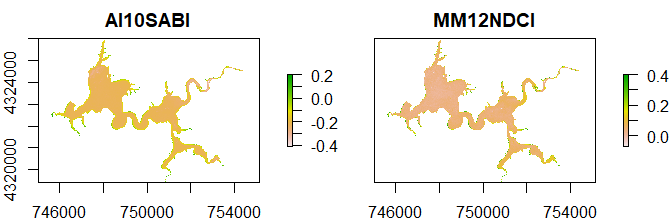
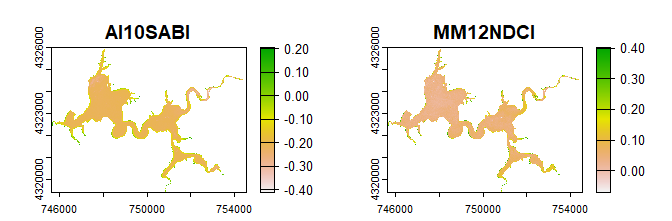
Updated docs

diff --git a/README.md b/README.md
@@ -6,8 +6,7 @@ status](http://www.r-pkg.org/badges/version/waterquality)](https://cran.r-projec
 [![Build
 Status](https://travis-ci.org/RAJohansen/waterquality.png?branch=master)](https://travis-ci.org/RAJohansen/waterquality)
 [![codecov](https://codecov.io/gh/RAJohansen/waterquality/branch/master/graph/badge.svg)](https://app.codecov.io/gh/RAJohansen/waterquality)
-[![Downloads](http://cranlogs.r-pkg.org/badges/waterquality?color=brightgreen)](https://www.r-pkg.org:443/pkg/waterquality)
-![](http://cranlogs.r-pkg.org/badges/grand-total/waterquality)
+![downloads](http://cranlogs.r-pkg.org/badges/grand-total/waterquality)
 
 # waterquality
 
@@ -68,16 +67,21 @@ The main function in this package is `wq_calc()`:
 
 ``` r
 library(waterquality)
-library(raster)
-s2 = stack(system.file("raster/S2_Harsha.tif", package = "waterquality"))
-s2_two_alg = wq_calc(s2, alg = c("MM12NDCI", "Al10SABI"), sat = "sentinel2")
+library(terra)
+s2 = terra::rast(system.file("raster/S2_Harsha.tif", package = "waterquality"))
+MM12NDCI = wq_calc(s2, alg = "MM12NDCI", sat = "sentinel2")
+samples = terra::vect(system.file("raster/Harsha_Simple_Points_CRS.gpkg", package = "waterquality"))
 ```
 
 ``` r
-plot(s2_two_alg)
+Map_WQ_raster(WQ_raster = MM12NDCI,
+              sample_points = samples,
+              map_title= "Water Quality Map",
+              raster_style = "quantile",
+              histogram = TRUE)
 ```
 
-![](man/figures/README-example_output-1.png)<!-- -->
+![](man/figures/README-unnamed-chunk-2-1.png)<!-- -->
 
 ## Package Contributions
 
